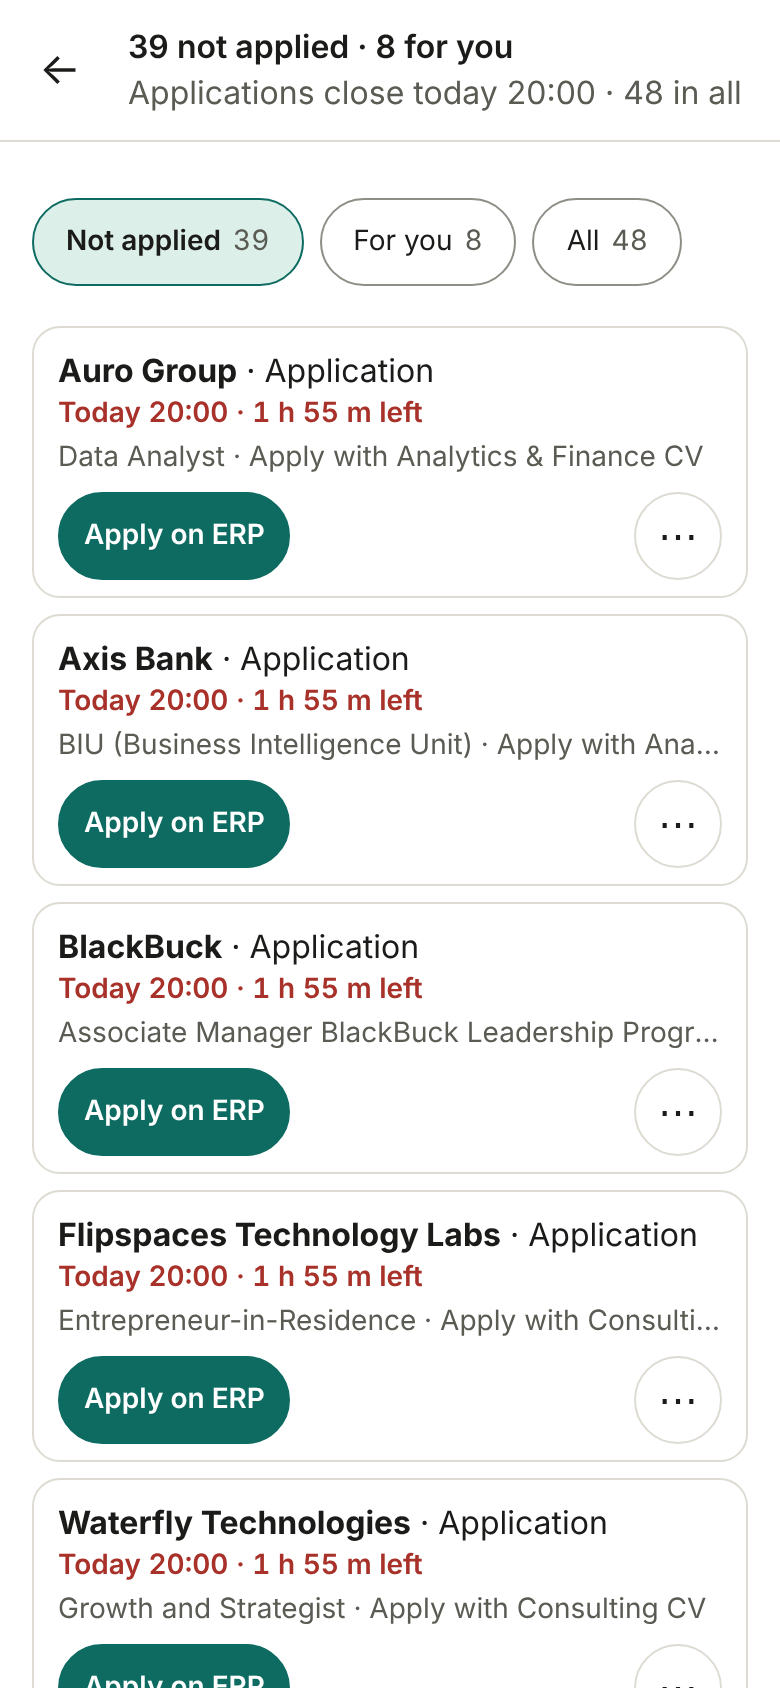
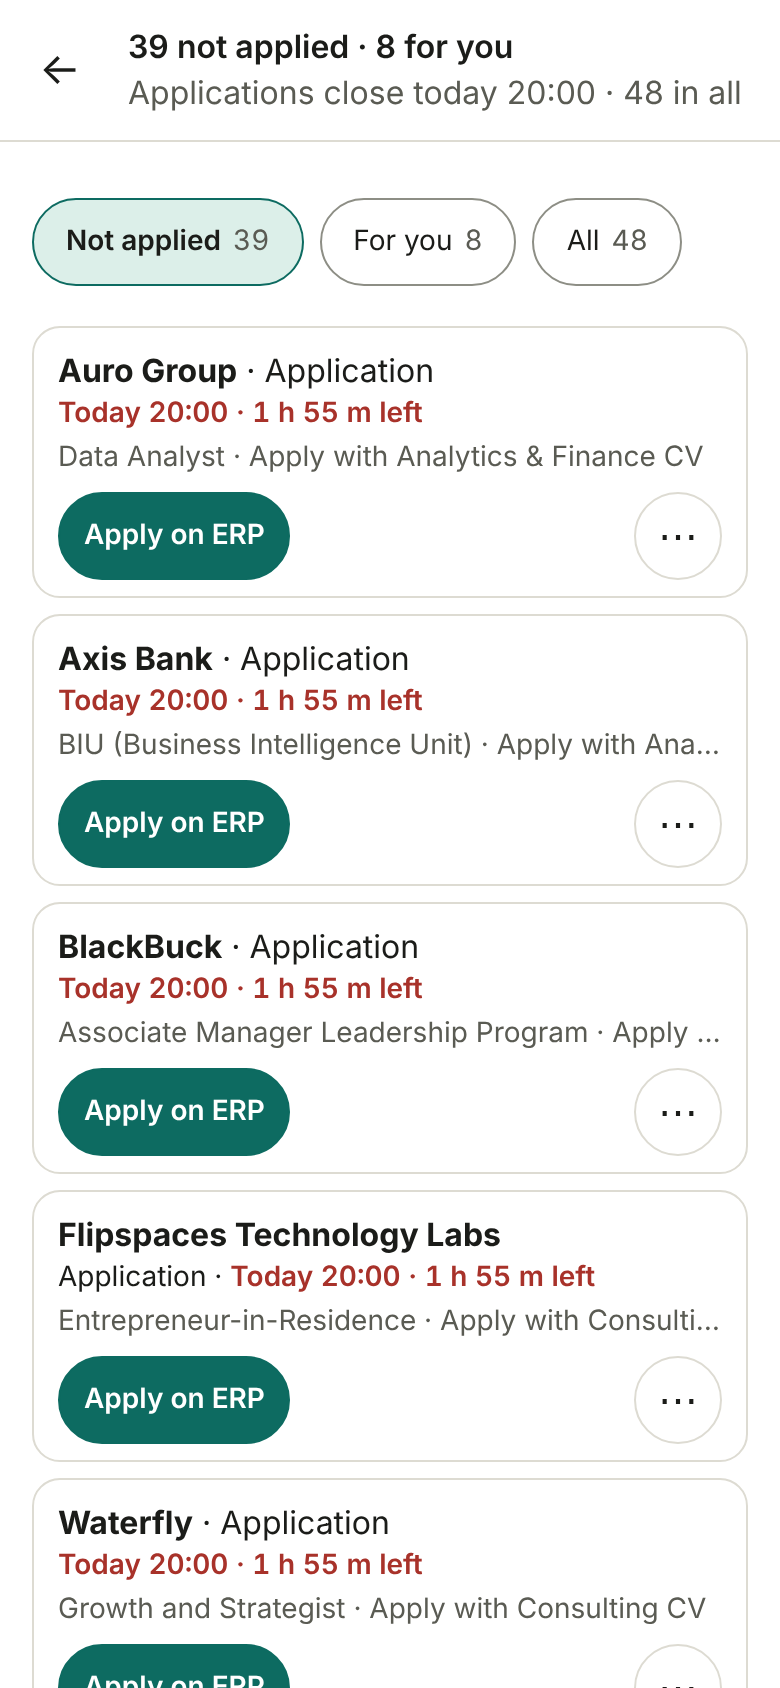
UI audit at 390 px, demo and signed-in: every card and screen; fixes for everything it flagged
setup/ui_audit.js loads every screen and card type (Chat, Today and its sheet, Forms, Companies, Profile, All
updates) in the demo and in the signed-in view (the owner's saved thread, offline: nobody's login), and flags cut-off
first lines, a time or the company said twice on a card, raw notice titles, IDs, 'Pvt Ltd' / 'Private Limited' and
cards taller than 3 lines + one button row. Fixed what it found: a long name puts the task at the start of line 2
instead of cutting line 1; short company names on cards; the company's own name taken out of a role ('Associate
Manager BlackBuck Leadership Program'); '(legal name: …)' dropped; pipes in role names read as ' · '; digest headlines
that don't fit say the count ('38 applications · 8 for you'); 'Which company is that?' shows clean names.

Claude-Session: https://claude.ai/code/session_0195wKaGeVRX1M8NJaTy4Lo5

diff --git a/dashboard/app.js b/dashboard/app.js
@@ -1792,12 +1792,24 @@
   // (the role, or what a title adds), one primary button and "⋯". A tap on the card or on ⋯ opens the detail in place:
   // the full titles, every notice, when it was posted, the role, Show in chat. Only what renders: the data is as it was.
   const CARDS = window.PingCards;
+  // a company as a card's first line says it: short, no legal suffix ("EY Global Delivery Services")
+  const shortCo = (c) => (window.PingNames?.shortName ? window.PingNames.shortName(cleanName(c || "")) : FORMS.cleanName(cleanName(c || "")));
+  // a role without the company's own name in it ("Associate Manager BlackBuck Leadership Program" -> "Associate
+  // Manager Leadership Program"): the company is already on line 1
+  function withoutCo(role, company) {
+    const w = String(company || "").split(/\s+/)[0];
+    if (!role || !w || w.length < 3) return String(role || "").replace(/\s*\|\s*/g, " · ");
+    const out = role.replace(new RegExp(`\\b${w.replace(/[.*+?^${}()|[\]\\]/g, "\\$&")}\\b\\s*`, "ig"), "").replace(/\s*\|\s*/g, " · ").replace(/\s{2,}/g, " ").trim();
+    return out.length >= 3 ? out : role;
+  }
   const relOf = (at, event = false) => CARDS.relDeadline(at, liveNow(), { event });
   function cardC({ key, cls = "", lead = null, company, task, at, event = false, status = null, l3 = "", primary = null,
                    tail = null, detail = () => [], attrs = {} }) {
     state.cardOpen = state.cardOpen || new Set();
     const open = !!key && state.cardOpen.has(key);
     const rel = at === undefined ? null : relOf(at, event);
+    // line 1 never cut off: when the name and the task don't fit, the task leads line 2 ("Test · Tue 24 Nov 11:00")
+    const name = shortCo(company), long = task && name.length + task.length > 30;
     const body = h("div", { class: "cc-detail", hidden: open ? null : true });
     let built = false;
     const build = () => { if (!built) { built = true; body.append(...[].concat(detail()).filter(Boolean)); } };
@@ -1805,9 +1817,11 @@
     const card = h("article", { class: `card-c${cls ? ` ${cls}` : ""}${open ? " open" : ""}`, ...attrs },
       h("div", { class: "cc-main" }, lead,
         h("div", { class: "cc-text" },
-          h("div", { class: "cc-l1" }, h("strong", { class: "co" }, FORMS.cleanName(company || "")), task ? h("span", { class: "cc-task" }, ` · ${task}`) : null, status),
-          rel ? h("div", { class: `cc-l2 lv-${rel.level}`, ...(rel.level !== "over" && rel.level !== "none" && at ? { "data-rel": dt(at).toISOString(), "data-event": event ? "1" : null } : {}) }, rel.text) : null,
-          l3 ? h("div", { class: "cc-l3" }, l3) : null)),
+          h("div", { class: "cc-l1" }, h("strong", { class: "co" }, name), task && !long ? h("span", { class: "cc-task" }, ` · ${task}`) : null, long ? null : status),
+          rel || long ? h("div", { class: "cc-l2-wrap" }, long ? h("span", { class: "cc-task2" }, `${task}${rel ? " · " : ""}`) : null,
+            rel ? h("span", { class: `cc-l2 lv-${rel.level}`, ...(rel.level !== "over" && rel.level !== "none" && at ? { "data-rel": dt(at).toISOString(), "data-event": event ? "1" : null } : {}) }, rel.text) : null,
+            long ? status : null) : null,
+          l3 ? h("div", { class: "cc-l3" }, withoutCo(l3, company)) : null)),
       h("div", { class: "cc-act" }, primary, h("span", { class: "cc-gap" }), tail, more),
       body);
     const toggle = () => {
@@ -1894,12 +1908,12 @@
     // collapsed, by the card rule: who and what, the time in relative words, the role (or the names in a list), one
     // button; the full message, its list, where it came from and its links are behind ⋯ (or a tap on the message)
     const digest = (d.list || []).some((g) => (g.rows || []).length);
-    const company = FORMS.cleanName(cleanName(it.company || "")) || ((it.title || "").match(/^(?:Update - )?([^:(]{2,40}?)(?: deadline| test| form)?:/) || [])[1] || "";
+    const company = shortCo(it.company) || ((it.title || "").match(/^(?:Update - )?([^:(]{2,40}?)(?: deadline| test| form)?:/) || [])[1] || "";
     const task = d.todo?.action === "fill_form" || /fill the form/i.test(it.title || "") ? "Form"
       : /\bsubmi(t|ssion)\b.*\bcv\b|\bcv submission\b/i.test(it.title || "") ? "CV submission"
       : it.category === "shortlist" || d.kind === "shortlist" ? "Shortlist" : it.category === "result" ? "Result"
       : kind === "test" || d.todo?.action === "take_test" ? (d.kind === "interview" || /interview/i.test(it.title || "") ? "Interview" : "Test")
-      : /deadline (extended|moved)|extended to/i.test(it.title || "") ? "Deadline extended" : /time moved/i.test(it.title || "") ? "Time moved"
+      : /deadline (extended|moved)|extended to/i.test(it.title || "") ? "Extended" : /time moved/i.test(it.title || "") ? "Time moved"
       : it.category === "ppt" || /pre-placement talk/i.test(it.title || "") ? "Talk" : it.category === "offer" ? "Offer"
       : kind === "soon" ? (d.role === "reminder" || it.category === "reminder" ? "Reminder" : "Application") : kind === "new" ? "New roles" : "Update";
     const event = ["Test", "Interview", "Shortlist", "Result", "Talk", "Time moved"].includes(task);
@@ -1907,12 +1921,17 @@
     const listed = digest ? (d.list || []).flatMap((g) => g.collapsed ? [] : (g.rows || []).map((r) => FORMS.cleanName(cleanName(cleanRowText(r.text).split(/ — | deadline\b|:| \(/)[0].trim())))) : [];
     const names = [...new Set(listed)];
     const allIds = digest ? (d.list || []).flatMap((g) => (g.rows || []).map((r) => r.id)).filter(Boolean) : [];
-    const headline = String(retitle(it) || "").replace(/\s*\([^)]*\)/g, "").split(/;\s/)[0]
+    const shortHead = (t) => {
+      const m = String(t).match(/(\d+)\s+(applications?|roles?|forms?|deadlines?|tests?|shortlists?)\b/i), y = String(t).match(/(\d+) for you/);
+      return t.length <= 32 || !m ? t : `${m[1]} ${m[2].toLowerCase()}${y ? ` · ${y[1]} for you` : ""}`;
+    };
+    const headline0 = String(retitle(it) || "").replace(/^(reminder|update)\s*:\s*/i, "").split(/:\s+(?=[A-Z])/)[0].replace(/ for roles you applied to/, "").replace(/\s*\([^)]*\)/g, "").split(/;\s/)[0]
       .replace(/(,| to| by| at| on)? (Mon|Tue|Wed|Thu|Fri|Sat|Sun) \d{1,2} \w{3}( \d\d:\d\d)?:?/g, "").replace(/[.:]\s*$/, "").trim();
+    const headline = shortHead(headline0);
     const onList = (d.pdf?.status || it.pdf_status) === "yes" && ["Shortlist", "Test", "Result"].includes(task);
     const status = it.done ? h("span", { class: "pill applied" }, "✓ done") : onList ? h("span", { class: "pill you" }, "you're on it")
       : listLink(it) ? h("span", { class: "pill plain" }, "check the list") : null;
-    const role = roleIn(it.title) || "";
+    const role = withoutCo(roleIn(it.title) || "", company);
     const place = [d.pdf?.details?.room ? `Room ${d.pdf.details.room}` : ""].filter(Boolean).join("");
     const plain = CARDS.cleanTitle(it.title, company, [task]);
     const l3 = digest ? (names.length > 3 ? `${names.slice(0, 3).join(", ")} +${names.length - 3}` : names.join(", "))
@@ -1928,17 +1947,19 @@
     const bubble = h("div", { class: `msg ping item k-${kind}${past ? " past" : ""}${it.done ? " done" : ""}${open ? " open" : ""}`, role: "button",
       tabindex: "0", "aria-expanded": String(open), "data-kind": kind, "data-key": `item:${it.id}`, "data-sig": itemSig(it) },
       review ? h("div", { class: "kicker" }, h("span", { class: "k" }, label)) : null,
-      review ? h("span", { class: "text title" }, retitle(it))
+      review ? h("span", { class: "text title" }, (d.candidates || []).reduce((t, c) => t.split(c).join(shortCo(c)), retitle(it)))
         : h("div", { class: "card-c chat-c" }, h("div", { class: "cc-text" },
             h("div", { class: "cc-l1" }, digest ? h("strong", { class: "co" }, headline || label) : h("strong", { class: "co" }, company || label),
-              digest || !company ? null : h("span", { class: "cc-task" }, ` · ${task}`), status),
-            rel ? h("div", { class: `cc-l2 lv-${rel.level}`, ...(!past && rel.level !== "over" ? { "data-rel": dt(due).toISOString(), "data-event": event ? "1" : null } : {}) },
-              past && rel.level !== "over" ? `${rel.text} · ${pastLabel.toLowerCase()}` : rel.text)
+              digest || !company || company.length + task.length > 26 ? null : h("span", { class: "cc-task" }, ` · ${task}`)),
+            !digest && company && company.length + task.length > 26 ? h("div", { class: "cc-l2 cc-task2" }, `${task}${rel ? ` · ${rel.text}` : ""}`, status) : null,
+            !digest && company && company.length + task.length > 26 ? null
+            : rel ? h("div", { class: `cc-l2 lv-${rel.level}`, ...(!past && rel.level !== "over" ? { "data-rel": dt(due).toISOString(), "data-event": event ? "1" : null } : {}) },
+              past && rel.level !== "over" ? `${rel.text} · ${pastLabel.toLowerCase()}` : rel.text, status)
               : !digest ? h("div", { class: "cc-l2" }, String(it.title || "").replace(/^[^:]{2,60}:\s*/, "")) : null,
             l3 && (rel || digest) ? h("div", { class: "cc-l3" }, l3) : null)),
       // "Which company is that? Tap to choose.": the choices are on the message, not under Details
       review ? h("div", { class: "onb-actions choose", role: "group", "aria-label": "Which company" },
-        d.candidates.map((c) => h("button", { type: "button", class: "chip", onclick: (ev) => { ev.stopPropagation(); fix(it, { company: c }); } }, c)),
+        d.candidates.map((c) => h("button", { type: "button", class: "chip", onclick: (ev) => { ev.stopPropagation(); fix(it, { company: c }); } }, shortCo(c))),
         h("button", { type: "button", class: "chip", onclick: (ev) => { ev.stopPropagation(); fix(it, { ignore: true }); } }, "None of these")) : null,
       h("div", { class: "cc-act foot" }, primary, h("span", { class: "cc-gap" }), h("span", { class: "time" }, clock(at)),
         h("button", { type: "button", class: "cc-more expand", "aria-expanded": String(open), "aria-label": open ? "Less" : "More about this message" }, open ? "▴" : "⋯")));
@@ -2575,7 +2596,7 @@
       key: `feed:${it.id}`, cls: `item ${cls}${it.done ? " done" : ""}`, company: c.company || cleanName(it.company || "") || "Placement office",
       task: it.needs_review ? "Question" : KIND_WORD[c.kind] || "Update", at: due || undefined, event: !!it.event_at && !it.due_at,
       status: it.done ? h("span", { class: "pill applied" }, "✓ done") : null,
-      l3: c.roleName || (due ? "" : String(it.title || "").replace(/^[^:]{2,60}:\s*/, "")),
+      l3: c.roleName || (due ? "" : (d.candidates || []).reduce((t, x) => t.split(x).join(shortCo(x)), String(it.title || "").replace(/^[^:]{2,60}:\s*/, ""))),
       primary: link ? h("a", { class: "act-btn primary", href: link, ...EXT }, /forms\.gle|docs\.google\.com\/forms|\/forms\//i.test(link) || d.todo?.link ? "Open form"
         : /meet\.google|zoom\.us|teams\.microsoft|webex|\/interview\//i.test(link) ? "Join" : /hackerrank|hackerearth|mettl|codility|test|assess/i.test(link) ? "Open test" : "Open link") : null,
       detail: () => [
@@ -2592,7 +2613,7 @@
     });
     if (it.needs_review && it.level !== "hidden") {
       card.append(h("div", { class: "onb-actions choose" }, "It's about:",
-        (d.candidates || []).map((x) => h("button", { type: "button", class: "chip", onclick: () => fix(it, { company: x }) }, x)),
+        (d.candidates || []).map((x) => h("button", { type: "button", class: "chip", onclick: () => fix(it, { company: x }) }, shortCo(x))),
         h("button", { type: "button", class: "chip", onclick: () => fix(it, { ignore: true }) }, "None of these")));
     }
     return card;
@@ -2715,9 +2736,9 @@
     const rel = dl ? relOf(dl) : null;
     return h("button", { type: "button", class: `role-row r-${cls}`, "data-role": r.id, onclick: () => openRole(r),
       "aria-label": `${cleanName(r.company)}, ${r.designation}, ${chip[1]}. Details` },
-      h("span", { class: "co" }, FORMS.cleanName(cleanName(r.company))),
+      h("span", { class: "co" }, shortCo(r.company)),
       h("span", { class: `pill ${chip[0]} rr-chip` }, chip[1]),
-      h("span", { class: "rn" }, r.designation),
+      h("span", { class: "rn" }, withoutCo(r.designation, cleanName(r.company))),
       h("span", { class: `meta cc-l2${rel ? ` lv-${rel.level}` : ""}`, ...(rel && open ? { "data-rel": dt(dl).toISOString() } : {}) },
         rel ? (open ? rel.text : rel.text.replace(/ · past due$/, " · closed")) : "No deadline yet"));
   }

diff --git a/setup/ui_audit.js b/setup/ui_audit.js
@@ -1,0 +1,114 @@
+// The UI audit: every screen and card type at 390 px, in the demo and in the signed-in view, flagged for
+//   - truncated text on a line that says who / what (line 1 of a card, a Today row's title, a heading)
+//   - the same thing said twice on one card (a time twice, the company again inside the title)
+//   - raw notice titles ([URGENT], "CDC |"), IDs (notice numbers, sample: keys, UUIDs) on a collapsed card
+//   - "Pvt Ltd" / "Private Limited" / "Limited" / "Ltd" on screen
+//   - collapsed cards taller than 3 lines of text plus one button row
+// The signed-in view: the demo is loaded once, its saved thread is marked as the owner's, and the page is opened
+// offline, so it renders as the signed-in owner (no Demo badge, the owner's code paths) without anyone's login.
+//   node setup/ui_audit.js [url]          (default: a local build on http://localhost:8799/)
+const { chromium } = require("playwright");
+const BASE = process.argv[2] || "http://localhost:8799/";
+const SCREENS = ["#chat", "#today", "#forms", "#companies", "#profile", "#feed"];
+
+const AUDIT = () => {
+  const vis = (el) => { const b = el.getBoundingClientRect(); const s = getComputedStyle(el); return b.width > 0 && b.height > 0 && s.visibility !== "hidden" && s.display !== "none"; };
+  const out = [];
+  const say = (what, el) => out.push(`${what}: "${(el.innerText || "").replace(/\s+/g, " ").trim().slice(0, 90)}"`);
+  // 1. truncated who/what lines
+  for (const el of document.querySelectorAll(".cc-l1, .today-row .t-title, .role-row .co, .fg-head, h1, h2, .forms-sec summary h2")) {
+    if (!vis(el) || el.closest(".cc-detail, .open") || !(el.innerText || "").trim()) continue;
+    if (el.scrollWidth > el.clientWidth + 1 && getComputedStyle(el).textOverflow === "ellipsis") say("cut off", el);
+  }
+  const cards = [...document.querySelectorAll(".card-c:not(.open), .today-row, .role-row")].filter((c) => vis(c) && !c.closest(".cc-detail"));
+  for (const c of cards) {
+    const head = c.querySelector(".cc-text, .t-body") || c;
+    const text = head.innerText || "";
+    // 2. the same time twice; the company again after line 1
+    const times = text.match(/\b\d{2}:\d{2}\b/g) || [];
+    if (new Set(times).size < times.length) say("time said twice", c);
+    const co = (c.querySelector(".co")?.innerText || "").trim();
+    const rest = [...head.querySelectorAll(".cc-l2, .cc-l3, .t-sub, .t-names, .rn")].map((e) => e.innerText).join(" ");
+    if (co.length >= 4 && !/\+\d/.test(co) && new RegExp(`\\b${co.replace(/[.*+?^${}()|[\]\\]/g, "\\$&")}\\b`, "i").test(rest)) say("company said again", c);
+    // 3. raw titles, IDs
+    if (/\[URGENT\]|\bCDC \||\s\|\s/.test(text)) say("raw notice title", c);
+    if (/\bnotice \d{3,}\b|\bsample:|[0-9a-f]{8}-[0-9a-f]{4}-[0-9a-f]{4}/i.test(text)) say("an ID on a card", c);
+    // 5. height: 3 lines of text
+    const lines = Math.round(head.getBoundingClientRect().height / 22);
+    if (c.matches(".card-c") && lines > 3) say(`${lines} lines of text`, c);
+    if (c.matches(".today-row") && lines > 3) say(`${lines} lines`, c);
+  }
+  // 4. legal suffixes anywhere on screen (outside an opened detail)
+  const walker = document.createTreeWalker(document.body, NodeFilter.SHOW_TEXT);
+  for (let n = walker.nextNode(); n; n = walker.nextNode()) {
+    const el = n.parentElement;
+    if (!el || !vis(el) || el.closest(".cc-detail, .more, details:not([open]), script, style, textarea, input")) continue;
+    if (/\b(pvt\.?\s*ltd|private limited|limited|ltd\.?)\b/i.test(n.textContent)) { say("legal suffix", el); }
+  }
+  return [...new Set(out)];
+};
+
+(async () => {
+  const b = await chromium.launch();
+  const ctx = await b.newContext({ viewport: { width: 390, height: 844 } });
+  const p = await ctx.newPage();
+  const errs = []; p.on("pageerror", (e) => errs.push(e.message));
+  const flags = [];
+  async function sweep(mode) {
+    for (const hash of SCREENS) {
+      console.error(`${mode} ${hash}`);
+      await p.evaluate((h) => { location.hash = h; }, hash); await p.waitForTimeout(800);
+      // the whole page: scroll the scroller through, auditing as we go
+      const seen = new Set();
+      for (let i = 0; i < 25; i++) {
+        for (const f of await p.evaluate(AUDIT)) if (!seen.has(f)) { seen.add(f); flags.push(`${mode} ${hash}: ${f}`); }
+        const more = await p.evaluate(() => { const s = document.querySelector("#thread") && location.hash === "#chat" ? document.querySelector("#thread") : document.querySelector("#app");
+          if (!s) return false; const before = s.scrollTop; s.scrollTop += s.clientHeight * 0.9; return s.scrollTop > before; });
+        if (!more) break;
+        await p.waitForTimeout(80);
+      }
+    }
+    // the Today sheet and a role's sheet
+    await p.evaluate(() => { location.hash = "#today"; }); await p.waitForTimeout(600);
+    if (await p.$("#today-page .today-row.k-deadline")) {
+      await p.click("#today-page .today-row.k-deadline"); await p.waitForTimeout(700);
+      for (const f of await p.evaluate(AUDIT)) flags.push(`${mode} today sheet: ${f}`);
+      await p.keyboard.press("Escape"); await p.evaluate(() => document.querySelector("#sheet")?.close?.());
+    }
+  }
+  await p.goto(`${BASE}?demo=1#chat`); await p.waitForSelector(".msg.item", { timeout: 40000 }); await p.waitForTimeout(2500);
+  await sweep("demo");
+  // the signed-in view: the saved thread, marked as the owner's, opened offline
+  console.error("signed-in: the saved thread, as the owner's, then offline");
+  const ok = await p.evaluate(async () => {
+    const data = await (await fetch("demo-data.json", { cache: "no-store" })).json();
+    return new Promise((res) => {
+      const r = indexedDB.open("ping", 1);
+      r.onupgradeneeded = () => r.result.createObjectStore("kv");
+      r.onsuccess = () => { const t = r.result.transaction("kv", "readwrite");
+        t.objectStore("kv").put({ kind: "real", demo: false, data, chat: [], savedAt: new Date().toISOString() }, "snap");
+        t.oncomplete = () => res(true); t.onerror = () => res(false); };
+      r.onerror = () => res(false);
+    });
+  });
+  if (ok) {
+    // "no connection": the page is told it's offline and every Supabase call fails, so it opens the saved thread
+    // as the signed-in owner (the app's own offline path), with nobody's login
+    await p.addInitScript(() => Object.defineProperty(Navigator.prototype, "onLine", { get: () => false }));
+    await p.route(/supabase\.co/, (r) => r.abort());
+    // a local build has no Supabase settings (no secrets here): a config with an address, so the app takes the
+    // signed-in path (every call to it fails above, as offline)
+    await p.route(/\/config\.js(\?|$)/, (r) => r.fulfill({ contentType: "application/javascript",
+      body: 'window.PING_CONFIG = {"supabaseUrl": "https://offline.supabase.co", "supabaseKey": "offline"}; window.PING_BUILD = "audit";' }));
+    await p.goto(`${BASE}#chat`, { waitUntil: "domcontentloaded", timeout: 20000 }).catch(() => {});
+    await p.waitForSelector(".msg.item", { timeout: 20000 }).catch(() => {});
+    // the owner's path (the saved thread, offline); the badge still says Demo because the data is the demo's sample
+    const owner = await p.evaluate(() => /Offline: your thread as of/.test(document.querySelector("#status")?.innerText || ""));
+    if (await p.$(".msg.item")) { flags.push(...(owner ? [] : ["signed-in: didn't open as the owner's saved thread"])); await sweep("signed-in"); }
+    else flags.push("signed-in: the saved thread didn't open offline (checked the demo only)");
+  } else flags.push("signed-in: no saved thread to open (checked the demo only)");
+  console.log(flags.length ? flags.join("\n") : "no flags");
+  console.log(errs.length ? `page errors: ${errs.join(" | ")}` : "no page errors");
+  await b.close();
+  process.exit(flags.filter((f) => !/checked the demo only/.test(f)).length || errs.length ? 1 : 0);
+})();

diff --git a/dashboard/style.css b/dashboard/style.css
@@ -825,3 +825,8 @@ label.tick { display: inline-flex; align-items: center; justify-content: center;
 .cv-sum > summary { cursor: pointer; min-height: 32px; display: flex; align-items: center; color: var(--accent); }
 .today-more { margin: var(--s2) 0 0; }
 .today-more a { color: var(--muted); text-decoration: underline; text-underline-offset: 2px; display: inline-flex; min-height: 44px; align-items: center; }
+/* a long name: the task leads line 2 */
+.cc-l2-wrap { line-height: 22px; overflow: hidden; text-overflow: ellipsis; white-space: nowrap; font-size: var(--t-sm); }
+.cc-l2-wrap .cc-l2 { display: inline; }
+.cc-task2 { color: var(--ink); }
+.cc-l2 .pill, .cc-l2-wrap .pill { margin-left: 6px; font-size: var(--t-xs); line-height: 18px; padding: 0 8px; }

diff --git a/dashboard/names.js b/dashboard/names.js
@@ -13,6 +13,8 @@
            .replace(/\s*\(([^()]*)\)/g, (m, inner) => (URLISH.test(inner) ? "" : m));          // (www.x.com)
     } while (s !== prev);
     s = s.replace(/\s{2,}/g, " ").replace(/\s+([,.;:])/g, "$1").trim();
+    // "(legal name: Elixar Systems Pvt Ltd)", "(formerly …)": not part of the name on screen
+    s = s.replace(/\s*\((legal name|formerly|earlier|a subsidiary|subsidiary)[^)]*\)/gi, "").trim();
     // never "Private Limited" / "Pvt Ltd" / "Limited" on screen
     for (let i = 0; i < 2; i++) s = s.replace(/[\s,]+(private\s+limited|pvt\.?\s*ltd\.?|pvt\.?|limited|ltd\.?|llp|inc\.?|corporation|corp\.?)\s*$/i, "").trim();
     return s || raw.trim();
